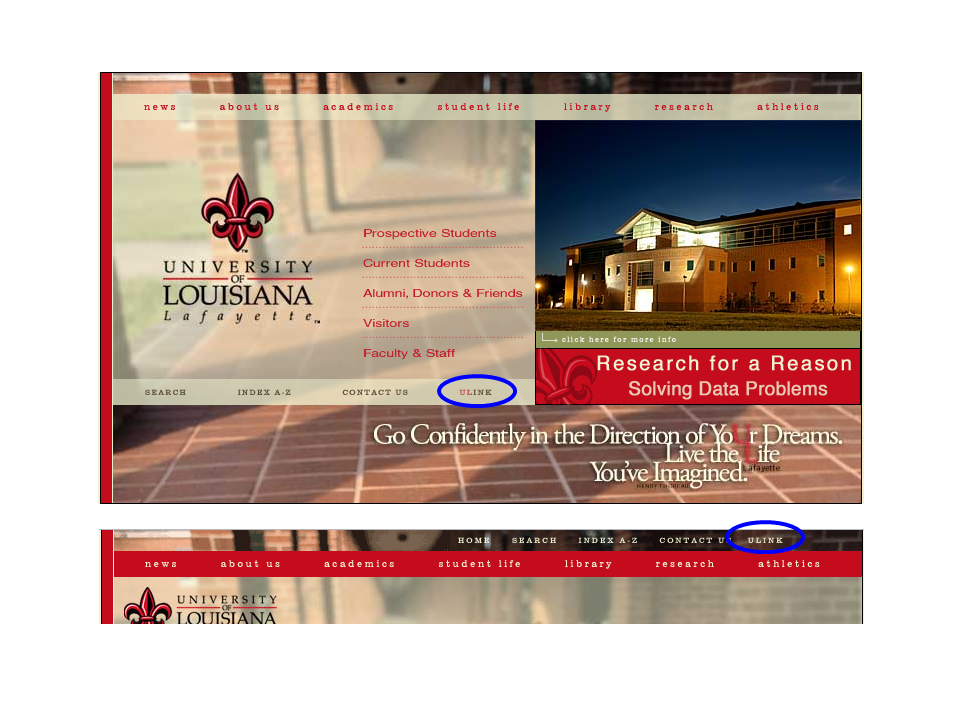
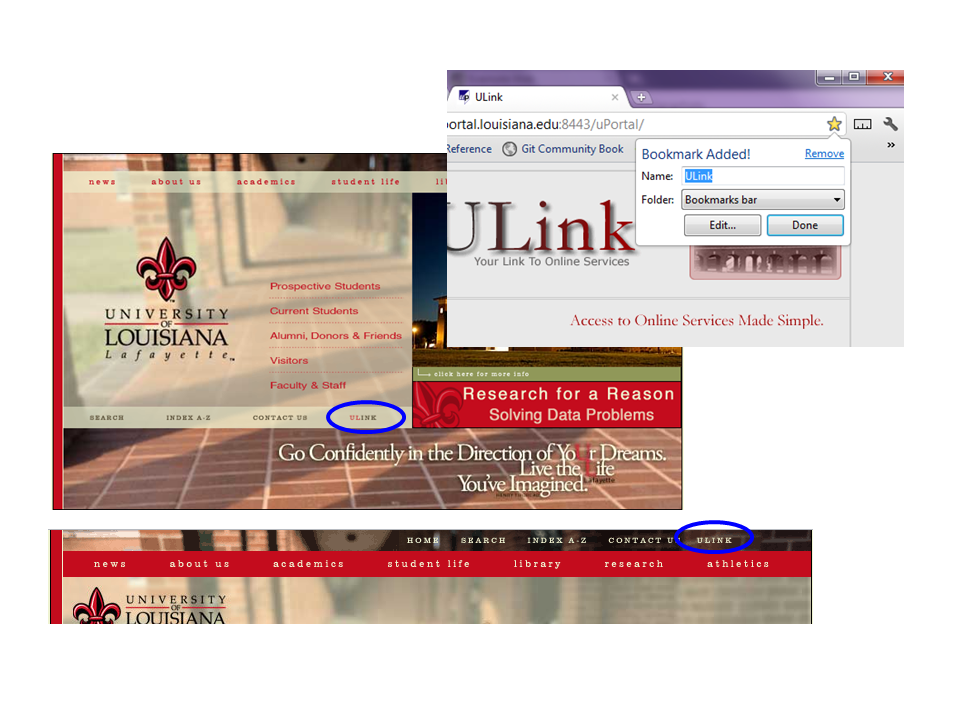
7

diff --git a/flexibility.html b/flexibility.html
@@ -81,7 +81,7 @@
 	 <div class="row">
 	    <div class="span4">
 	    <a class="gallery" rel="flexibility" href="images/flexibility_large.png"
-	      title="Flexibility and Efficiency of Use(1/3)">
+	      title="Flexibility and Efficiency of Use(1 of 4)">
 	    <img class="title2" src="images/flexibility.png"></a></div>
 	    <div class="span5"><p id="text">Forms are complex things and mostly ill-conceived. Here for instance, users have to delete the
 	    title of the input field before they enter their own information. We tried to enter our information without deleting these titles, and we submitted: No error Message!  This is an example of inefficiency of use.</p>
@@ -91,7 +91,7 @@
 	<div class="row">
 	    <div class="span4">
 	    <a class="gallery" rel="flexibility" href="images/flexibility2_large.png"
-	      title="Flexibility and Efficiency of Use  (2/3)">
+	      title="Flexibility and Efficiency of Use  (2 of 4)">
 	    <img class="title2" src="images/flexibility2.png"></a></div>
 	    <div class="span5">
 	    <p id="text">For instance, on this page <i>registrar</i> is just a small unit of text. It is difficult to know where to start when confronted with a page like this. There is too much information.</p>
@@ -103,10 +103,28 @@
 	<div class="row">
 	    <div class="span4">
 	    <a class="gallery" rel="flexibility" href="images/rachel_screenshots/7_flex.png"
-	      title="Flexibility and Efficiency of Use  (3/3)">
+	      title="Flexibility and Efficiency of Use  (3 of 4)">
 	    <img class="title2" src="images/rachel_screenshots/7_flex.png"></a></div>
 	    <div class="span5">
-	    <p id="text">When it comes to aesthetics and minimal design, this email instruction page has to be the exact opposite of what should be expected from a website.  In contemporary web design, this type of explanation of sending an email should hopefully never happen.</p>
+	    <p id="text">The link to the ULink portal is
+	    on the center of the home page as well as on every page above the
+	    navigation bar. For registered students not necessarily looking
+	    for information within the site, these links can be convenient. The portal
+	    is also easily bookmarked.</p>
+	 </div>
+        </div>
+	
+	<div class="row">
+	    <div class="span4">
+	    <a class="gallery" rel="flexibility" href="images/rachel_screenshots/7_flex_2.png"
+	      title="Flexibility and Efficiency of Use  (4 of 4)">
+	    <img class="title2" src="images/rachel_screenshots/7_flex_2.png"></a></div>
+	    <div class="span5">
+	    <p id="text">Bookmarking the pages of the main site is a bit hit or miss.
+	    Browsers use the document title in the head to create the bookmark
+	    label, but search engines also use the document title. This website
+	    favors search engine optimization principles over usability for the
+	    title.</p>
 	 </div>
         </div>
 	

diff --git a/aesthetic.html b/aesthetic.html
@@ -94,7 +94,11 @@ When presenting information to the user, it should be clear where the location o
 	    <div class="span4">	      
 	      <a class="gallery" rel="aesthetic" href="images/rachel_screenshots/8_aesthetics.png" title="Aesthetic and Minimal Design (2/2)">
 	      <img class="title2" src="images/rachel_screenshots/8_aesthetics.png"></a></div>
-	      <div class="span5"><p id="text">When it comes to aesthetics and minimal design, this email instruction page has to be the exact opposite of what should be expected from a website.  In contemporary web design, this type of explanation of sending an email should hopefully never happen.</p>
+	      <div class="span5"><p id="text">When it comes to aesthetics and
+	      minimal design, this email instruction page has to be the exact
+	      opposite of what should be expected from a website. In
+	      contemporary web design, this type of explanation of sending an
+	      email should hopefully never happen.</p>
 	      </div>
 	 </div>
 	 
